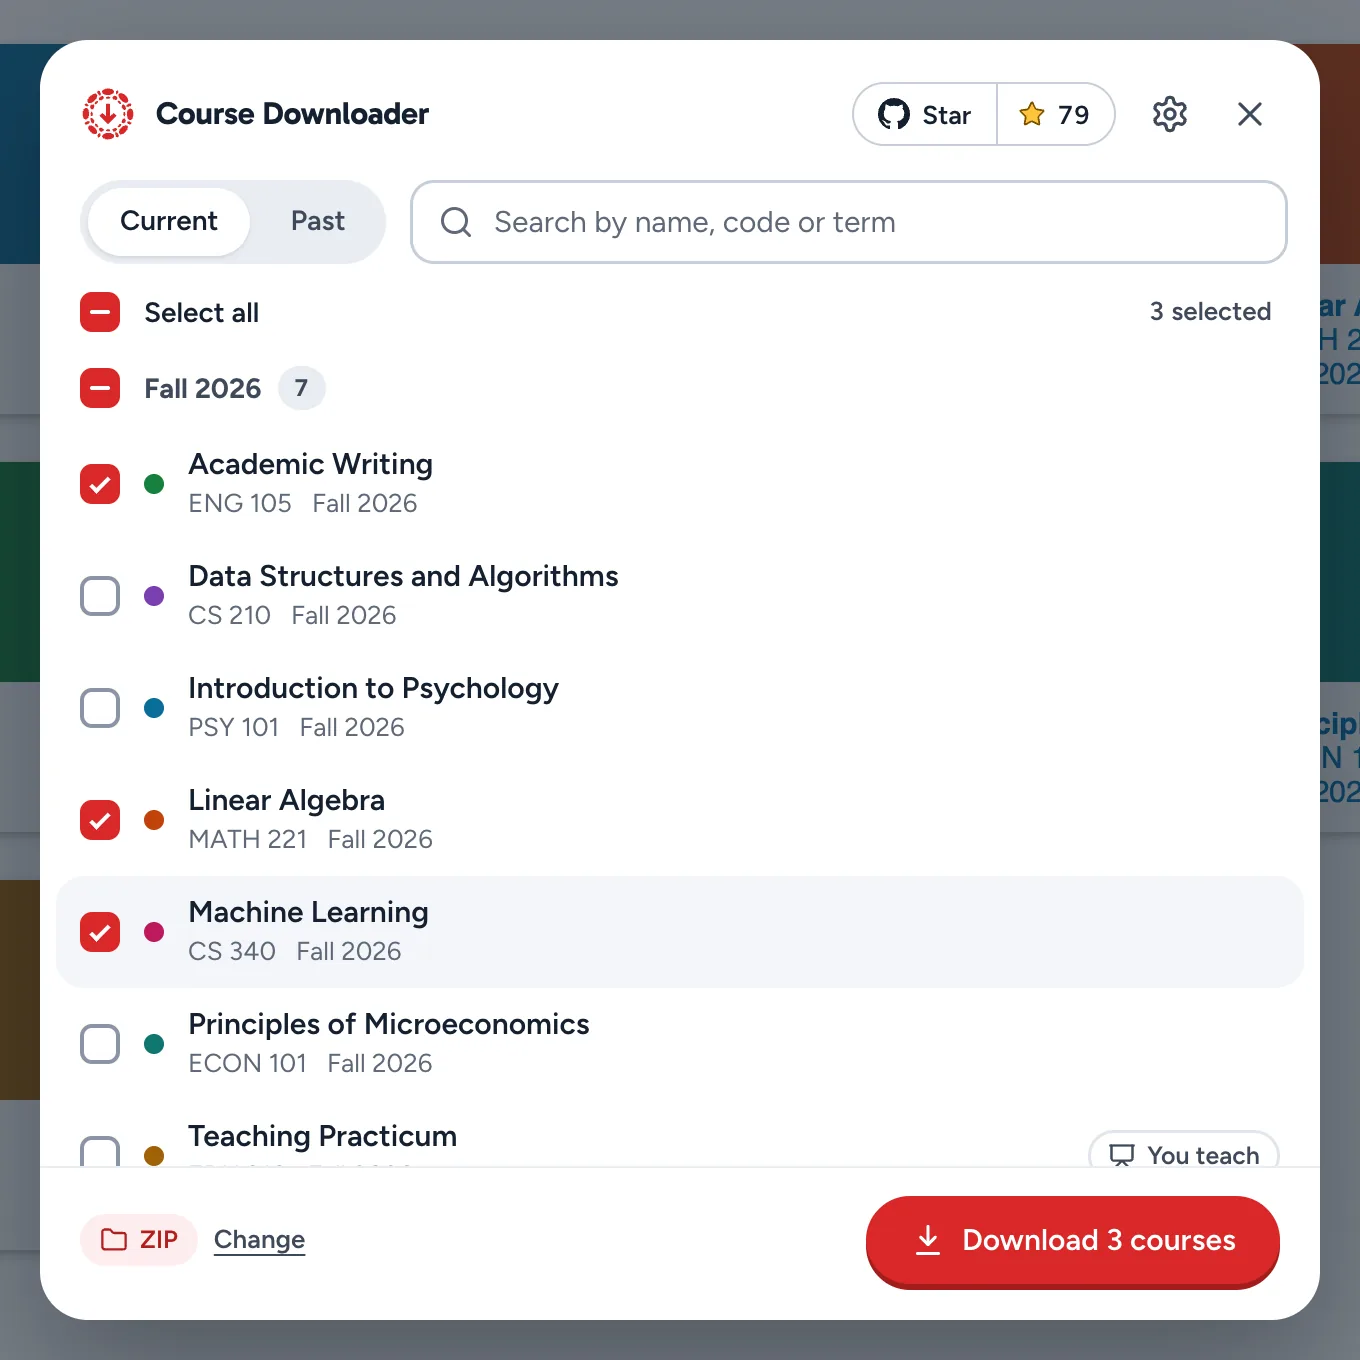
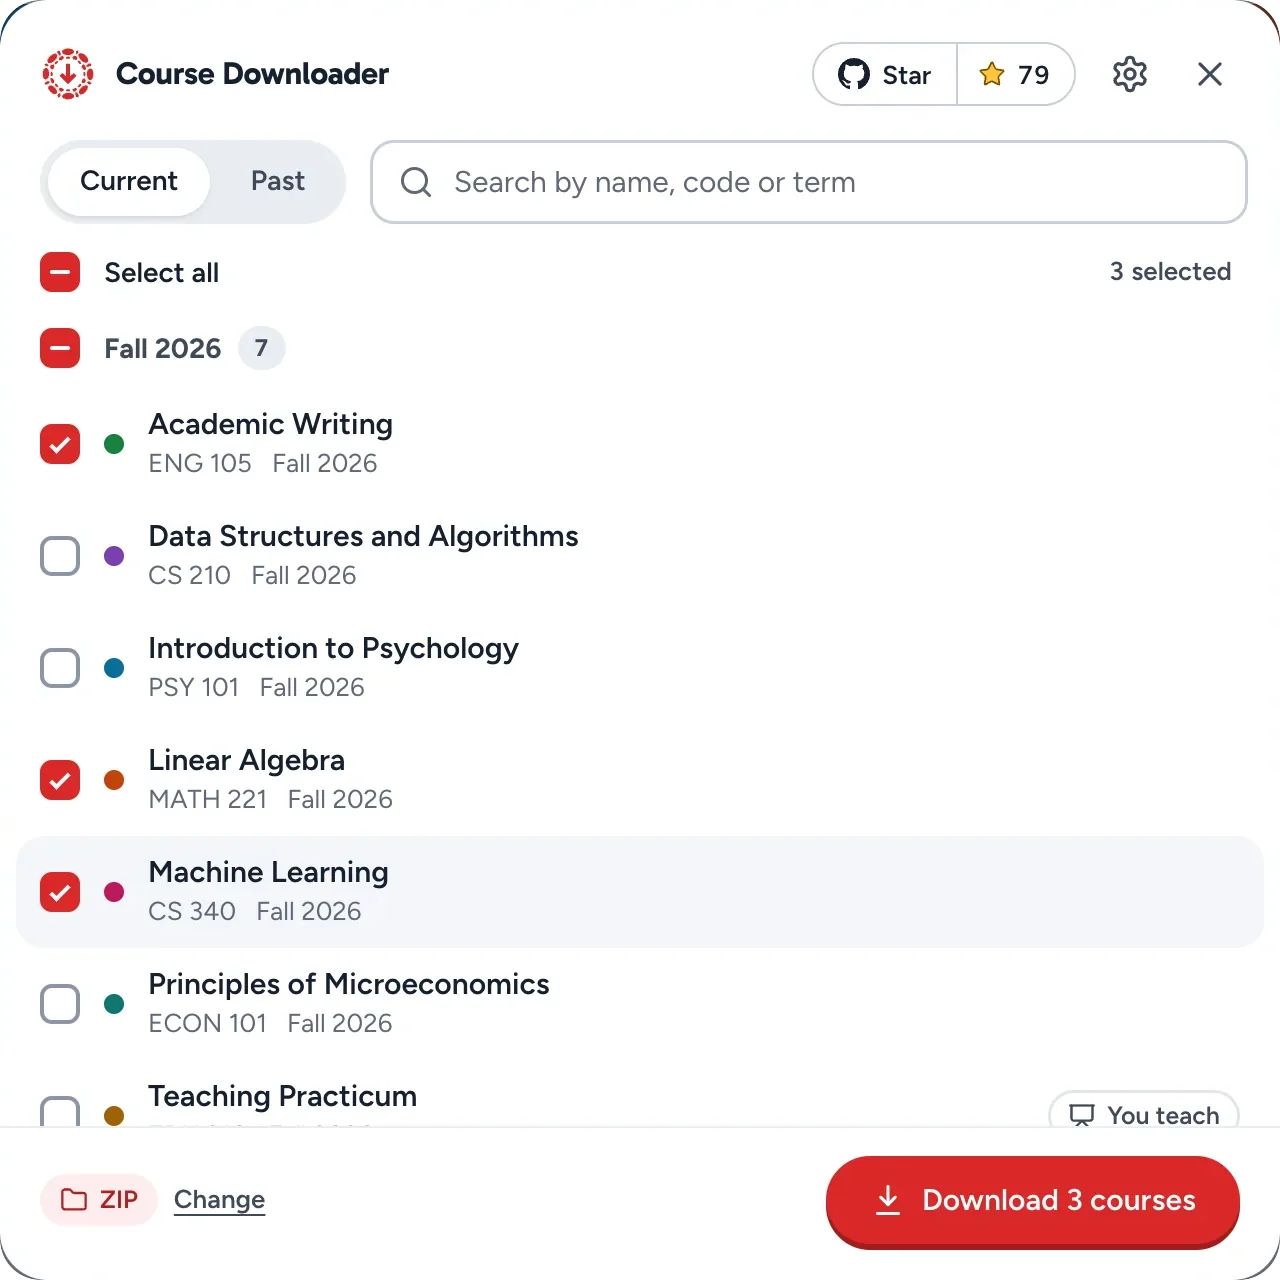
website: fixes from the final design review
- Hero and receipt rows now add up: the card lists what's inside without counts,
  the receipt gains the overview row the real one has (53 files).
- The picker shot is the whole popup on its own plate, on phones too.
- The dark section's text and ring stay in view while the tree fills; on phones
  a small ring rides along on top of the tree, and folders inside Files stay closed.
- Every page uses one install button: the store on a computer, an email with the
  link on a phone, also in the bar.
- Policy tables share their columns and show short source names; privacy tables
  stack on phones; inner pages line up with their headline.
- Removed: the coding-tools tab, the unsourced third quote, the Pip line, the
  Firefox promise under the last button, and three unused shots.

Changed region(s): [[0.0, 0.0, 1.0, 1.0], [0.1875, 0.125, 0.25, 0.1875], [0.9062, 0.0625, 0.9375, 0.0938]]

diff --git a/website/src/styles/site.css b/website/src/styles/site.css
@@ -552,6 +552,14 @@ ol {
 .shot img {
   width: 100%;
 }
+/* The picker as it opens over the dashboard, on a plate of its own. */
+.shot.popup {
+  padding: clamp(16px, 3vw, 40px);
+}
+.shot.popup img {
+  border-radius: clamp(10px, 1.4vw, 20px);
+  box-shadow: 0 18px 50px rgba(20, 32, 47, 0.18);
+}
 /* A crop of a bigger window: it sits on a plate, cut at the right and bottom edges. */
 .shot.crop {
   padding: clamp(16px, 2.4vw, 32px) 0 0 clamp(16px, 2.4vw, 32px);
@@ -666,6 +674,8 @@ ol {
   display: grid;
   gap: 20px;
   align-content: start;
+  position: sticky;
+  top: 96px;
 }
 .ev-text .lead {
   color: #c9d2de;
@@ -673,7 +683,7 @@ ol {
 }
 .kinds {
   display: grid;
-  grid-template-columns: repeat(2, minmax(0, 1fr));
+  grid-template-columns: repeat(3, minmax(0, 1fr));
   gap: 8px;
   margin: 8px 0 0;
   padding: 0;
@@ -694,6 +704,7 @@ ol {
 .kind span {
   display: flex;
   align-items: center;
+  height: 100%;
   min-height: 52px;
   padding: 10px 16px;
   border-radius: var(--r-choice);
@@ -779,10 +790,22 @@ ol {
   transition: opacity 0.25s;
 }
 .tree .name {
+  display: flex;
+  min-width: 0;
+  white-space: nowrap;
+}
+.tree .head {
   min-width: 0;
   overflow: hidden;
   text-overflow: ellipsis;
-  white-space: nowrap;
+}
+.tree .tail {
+  flex: none;
+  white-space: pre;
+}
+/* On phones the ring rides along at the top of the tree. */
+.tree-bar {
+  display: none;
 }
 .tree .icon {
   width: 16px;
@@ -1197,6 +1220,7 @@ ol {
 /* Text pages: one centred reading column, the same margins on both sides. */
 .wrap.narrow {
   width: min(760px, 100% - 2 * var(--gutter));
+  max-width: none;
 }
 .head-split {
   display: grid;
@@ -1262,7 +1286,7 @@ ol {
   overflow-x: auto;
 }
 .prose td {
-  overflow-wrap: anywhere;
+  overflow-wrap: break-word;
 }
 .table-scroll {
   overflow-x: auto;
@@ -1286,7 +1310,12 @@ ol {
 }
 .prose .policy-table,
 .policy-table {
+  display: table;
   table-layout: fixed;
+}
+.policy-table td[data-label='Source'] a {
+  white-space: nowrap;
+  font-size: var(--t-small);
 }
 .policy-table .ends {
   font-weight: 800;
@@ -1317,8 +1346,11 @@ ol {
 }
 .install-card {
   display: grid;
+  grid-template-columns: minmax(0, 1fr);
   gap: 12px;
   align-content: start;
+  justify-items: start;
+  min-width: 0;
   padding: 24px;
   border-radius: var(--r-card);
   background: var(--mist);
@@ -1326,6 +1358,9 @@ ol {
 .install-card h2 {
   margin: 0;
   font-size: 26px;
+}
+.install-card .btn {
+  max-width: 100%;
 }
 .not-found {
   display: grid;
@@ -1372,10 +1407,46 @@ ol {
   .kind-desc {
     min-height: 0;
   }
+  .ev-text {
+    position: static;
+  }
+  .ev-ring {
+    display: none;
+  }
+  .tree-bar {
+    position: sticky;
+    top: 64px;
+    z-index: 1;
+    display: flex;
+    align-items: center;
+    gap: 12px;
+    margin: -8px -8px 12px;
+    padding: 8px;
+    border-radius: 14px;
+    background: #0e1824;
+    font: 800 20px/1 var(--font-display);
+    font-variant-numeric: tabular-nums;
+  }
+  .tree-bar .logo {
+    width: 44px;
+    height: 44px;
+  }
+  .tree-bar .ring .dot {
+    fill: #2b3b52;
+  }
+  .tree-bar .ring .dot.on,
+  .tree-bar .ring .arrow {
+    fill: var(--red);
+  }
+  /* The headline before the receipt it describes. */
+  .receipt-text {
+    order: -1;
+  }
 }
 @media (max-width: 640px) {
   .nav-inner {
     height: 56px;
+    gap: 12px;
   }
   .brand {
     font-size: 17px;
@@ -1427,12 +1498,43 @@ ol {
   .tree .note {
     display: none;
   }
+  .tree-bar {
+    top: 56px;
+  }
+  /* Folders inside Files stay closed on a phone. */
+  .tree > ul > li > ul > li > ul {
+    display: none;
+  }
   .faq {
     columns: 1;
   }
 }
+/* Phones: the privacy tables as a list, each name on its own line above its reason. */
+@media (max-width: 640px) {
+  .doc table,
+  .doc tbody,
+  .doc tr,
+  .doc td {
+    display: block;
+  }
+  .doc thead {
+    display: none;
+  }
+  .doc tr {
+    padding: 12px 0;
+    border-bottom: 1px solid var(--line);
+  }
+  .doc td {
+    padding: 0;
+    border: 0;
+  }
+  .doc td:first-child {
+    font-weight: 700;
+  }
+}
 /* Phones: every university as a card, its fields labelled. */
 @media (max-width: 700px) {
+  .prose .policy-table,
   .policy-table,
   .policy-table tbody,
   .policy-table tr,

diff --git a/website/src/data/kinds.ts b/website/src/data/kinds.ts
@@ -1,4 +1,4 @@
-// The four kinds of download, each with the folder tree it really makes. The trees come from
+// The three kinds of download, each with the folder tree it really makes. The trees come from
 // exports of the sample course "Academic Writing" in the test Canvas (invented data), shortened
 // where a folder repeats ("11 more").
 
@@ -9,10 +9,9 @@ export interface Node {
 }
 
 export interface Kind {
-  id: 'copy' | 'study' | 'agents' | 'teacher';
+  id: 'copy' | 'study' | 'teacher';
   label: string;
   text: string;
-  pose: string;
   zip: string;
   tree: Node[];
   foot?: string;
@@ -25,7 +24,6 @@ export const KINDS: Kind[] = [
     id: 'copy',
     label: 'A copy to keep',
     text: 'The course as it is in Canvas, as pages that open in any browser without internet. Start with the Open me page.',
-    pose: 'folder',
     zip: 'Academic Writing.zip',
     tree: [
       f('Open me - Academic Writing.html', undefined, 'start here'),
@@ -50,7 +48,6 @@ export const KINDS: Kind[] = [
     id: 'study',
     label: 'A study pack for AI',
     text: 'A course guide with deadlines and grading, one file per module, and the slides and PDFs. Sized for NotebookLM, ChatGPT or Claude, and split when a course is too big.',
-    pose: 'laptop',
     zip: 'Academic Writing - AI study pack.zip',
     tree: [
       f('00 Course guide.md', undefined, 'deadlines, grading'),
@@ -64,29 +61,9 @@ export const KINDS: Kind[] = [
     foot: '31 sources, all in one notebook',
   },
   {
-    id: 'agents',
-    label: 'For coding tools',
-    text: 'The course in Markdown with front matter, plus AGENTS.md, llms.txt and course.json, for Claude Code, Codex or Cursor.',
-    pose: 'point',
-    zip: 'Academic Writing.zip',
-    tree: [
-      f('AGENTS.md', undefined, 'how the course is laid out'),
-      f('llms.txt'),
-      f('course.json', undefined, 'structure and deadlines'),
-      f('Modules.md'),
-      f('Syllabus.md'),
-      f('Pages', [f('4 pages in Markdown')]),
-      f('Assignments', [f('5 assignments in Markdown')]),
-      f('Files', [f('24 files')]),
-      f('Grades.csv'),
-      f('Deadlines.ics'),
-    ],
-  },
-  {
     id: 'teacher',
     label: "A teacher's archive",
     text: "The course you teach, without students' work unless you turn it on. Add the course package Canvas makes, to import the course again later.",
-    pose: 'read',
     zip: 'Teaching Practicum.zip',
     tree: [
       f('Open me - Teaching Practicum.html', undefined, 'start here'),

diff --git a/website/src/scripts/landing.ts b/website/src/scripts/landing.ts
@@ -52,7 +52,11 @@ async function demo() {
     stage.classList.add('carded');
     el('name').textContent = 'Academic Writing is saved';
     el('count').textContent = '54 files, 27 MB, in Downloads';
-    el('recent').innerHTML = ['Files 24', 'Pages and assignments 9', 'Quizzes and discussions 5']
+    el('recent').innerHTML = [
+      'Files, pages and assignments',
+      'Quizzes, discussions and announcements',
+      'Your grades and every deadline',
+    ]
       .map((t) => `<li><svg class="icon" aria-hidden="true"><use href="#i-check"></use></svg>${t}</li>`)
       .join('');
     replay.hidden = false;
@@ -115,16 +119,22 @@ if (stage) {
 // the folder fills in, row by row.
 const ev = document.querySelector<HTMLElement>('[data-everything]');
 if (ev) {
-  const ring = ev.querySelector('[data-ring="everything"]');
-  const status = ev.querySelector<HTMLElement>('[data-ev-pct]')!;
+  // The ring beside the text, and on phones the one in the bar that stays on top of the tree.
+  const rings = ev.querySelectorAll('[data-ring="everything"]');
+  const statuses = ev.querySelectorAll<HTMLElement>('[data-ev-pct]');
   let progress = reduced ? 1 : 0;
-  const rows = () => [...ev.querySelectorAll<HTMLElement>('[data-tree]:not([hidden]) [data-row]')];
+  // Rows a phone folds away don't take a share of the progress.
+  const rows = () =>
+    [...ev.querySelectorAll<HTMLElement>('[data-tree]:not([hidden]) [data-row]')].filter(
+      (r) => r.getClientRects().length > 0,
+    );
   const paint = () => {
-    fill(ring, progress);
+    rings.forEach((ring) => fill(ring, progress));
     const list = rows();
     const shown = Math.round(progress * list.length);
     list.forEach((r, i) => r.classList.toggle('pending', i >= shown));
-    status.textContent = progress >= 1 ? 'Saved' : `${Math.round(progress * 100)}%`;
+    const text = progress >= 1 ? 'Saved' : `${Math.round(progress * 100)}%`;
+    statuses.forEach((s) => (s.textContent = text));
   };
   for (const input of ev.querySelectorAll<HTMLInputElement>('input[name="kind"]')) {
     input.addEventListener('change', () => {

diff --git a/website/src/data/site.ts b/website/src/data/site.ts
@@ -41,3 +41,10 @@ export function href(path: string): string {
   const base = import.meta.env.BASE_URL.replace(/\/$/, '');
   return `${base}${path}`;
 }
+
+/** Phones can't run the extension, so their button writes the visitor an email with the install link. */
+export function mailToSelf(site: URL): string {
+  const subject = encodeURIComponent(PRODUCT);
+  const body = encodeURIComponent(`Install it on my laptop: ${new URL(href('/download/'), site)}`);
+  return `mailto:?subject=${subject}&body=${body}`;
+}
